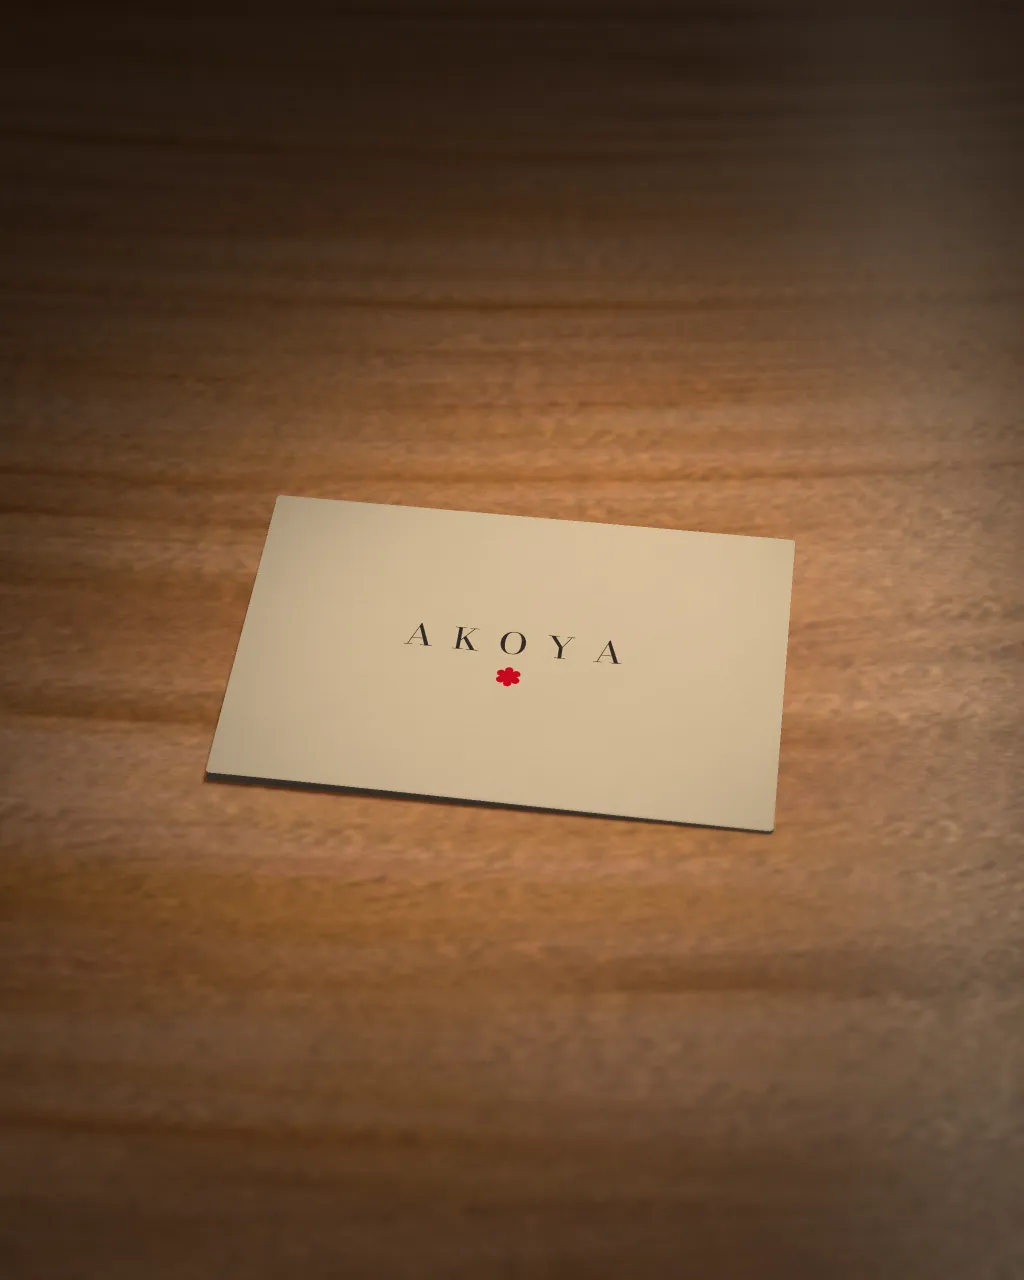
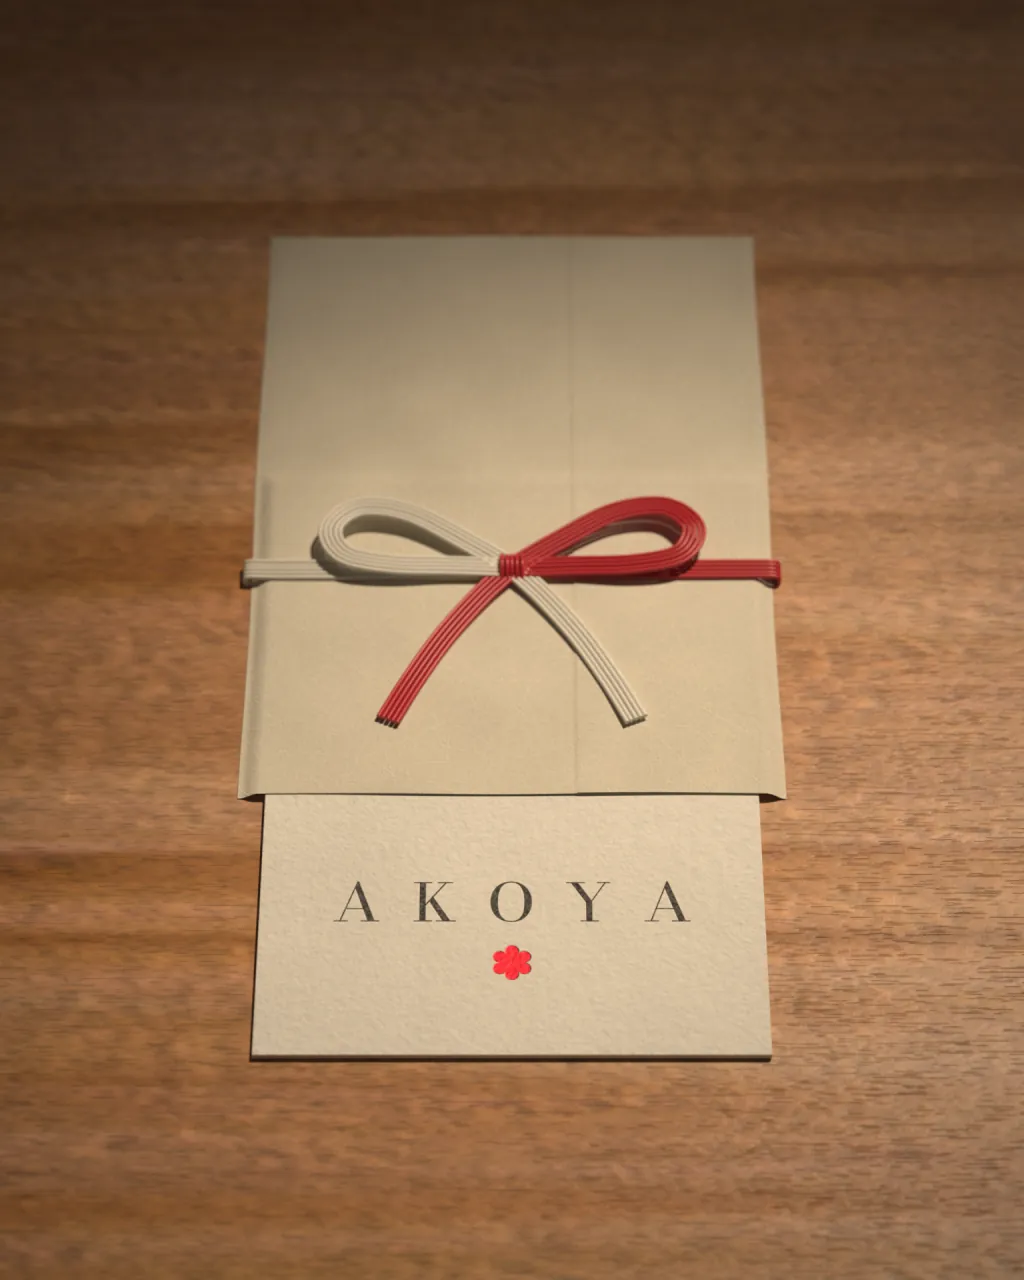
Akoya 3d: biglietto del buono col mizuhiki

diff --git a/akoya/3d/index.html b/akoya/3d/index.html
@@ -806,7 +806,7 @@ animation: none !important;
   <picture class="quadro largo">
       <source type="image/avif" srcset="../assets/img/buono-1024.avif 1024w, ../assets/img/buono-640.avif 640w" sizes="(max-width: 899px) 100vw, 36rem">
       <source type="image/webp" srcset="../assets/img/buono-1024.webp 1024w, ../assets/img/buono-640.webp 640w" sizes="(max-width: 899px) 100vw, 36rem">
-      <img src="../assets/img/buono-640.webp" width="1024" height="1280" alt="Un cartoncino con il nome Akoya e la stella rossa, appoggiato sul rovere del banco sotto la lampada" loading="lazy" decoding="async">
+      <img src="../assets/img/buono-640.webp" width="1024" height="1280" alt="Un cartoncino con il nome Akoya e la stella rossa esce da una busta di carta washi, legata con un cordino mizuhiki rosso e bianco annodato a fiocco, sul rovere del banco" loading="lazy" decoding="async">
   </picture>
   <nav class="porte una" aria-label="Richiedi il buono regalo">
     <a class="porta" href="https://spaziomusa.net/akoya/" target="_blank" rel="noopener" aria-label="Richiedi il buono regalo sul sito di Akoya">
